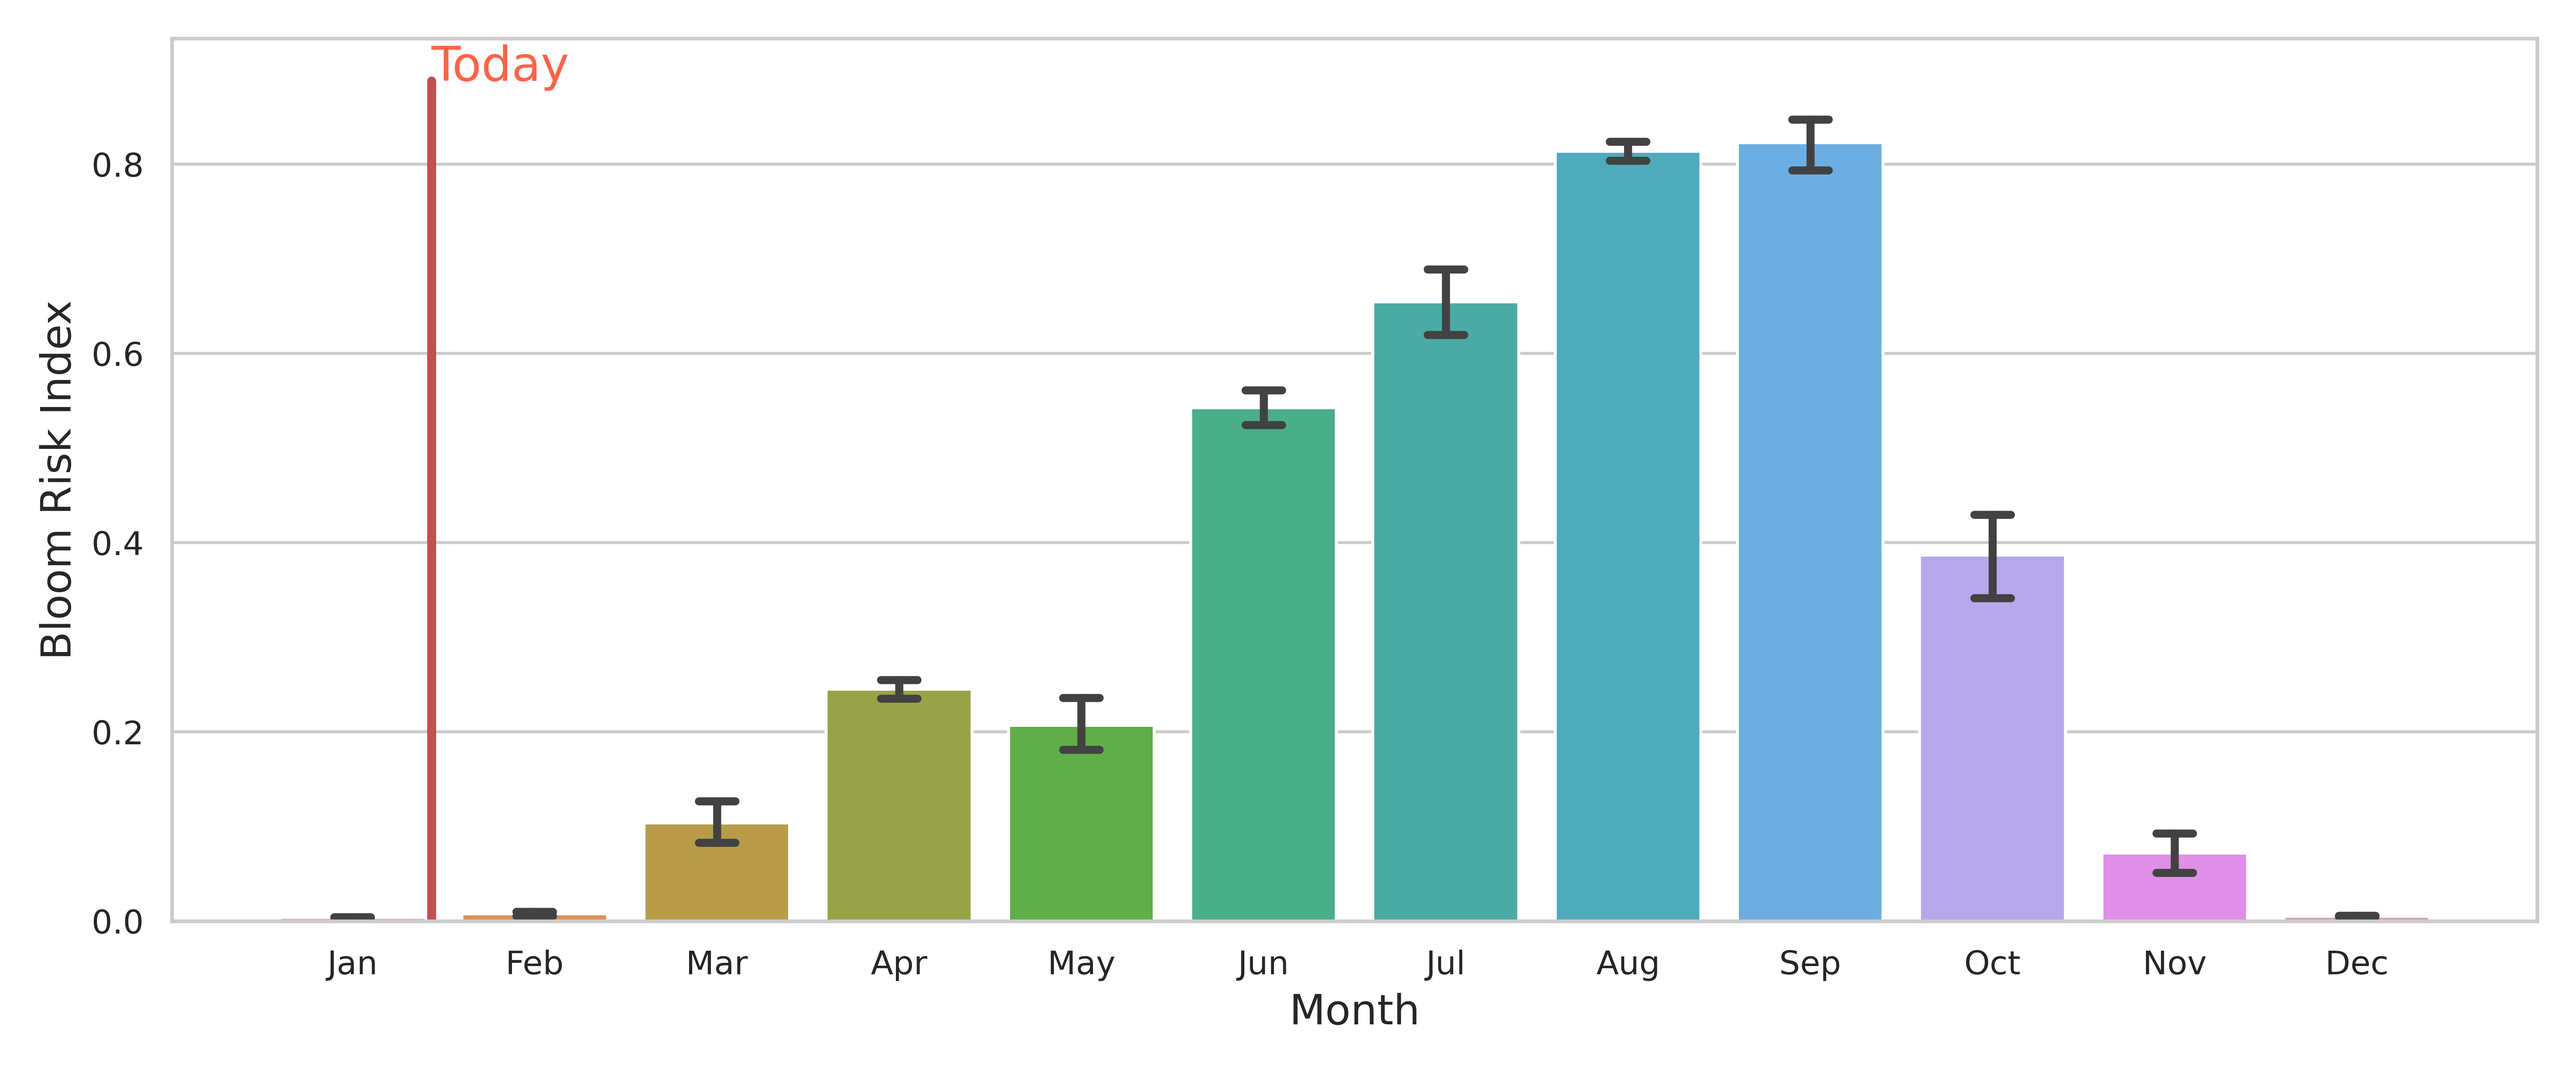
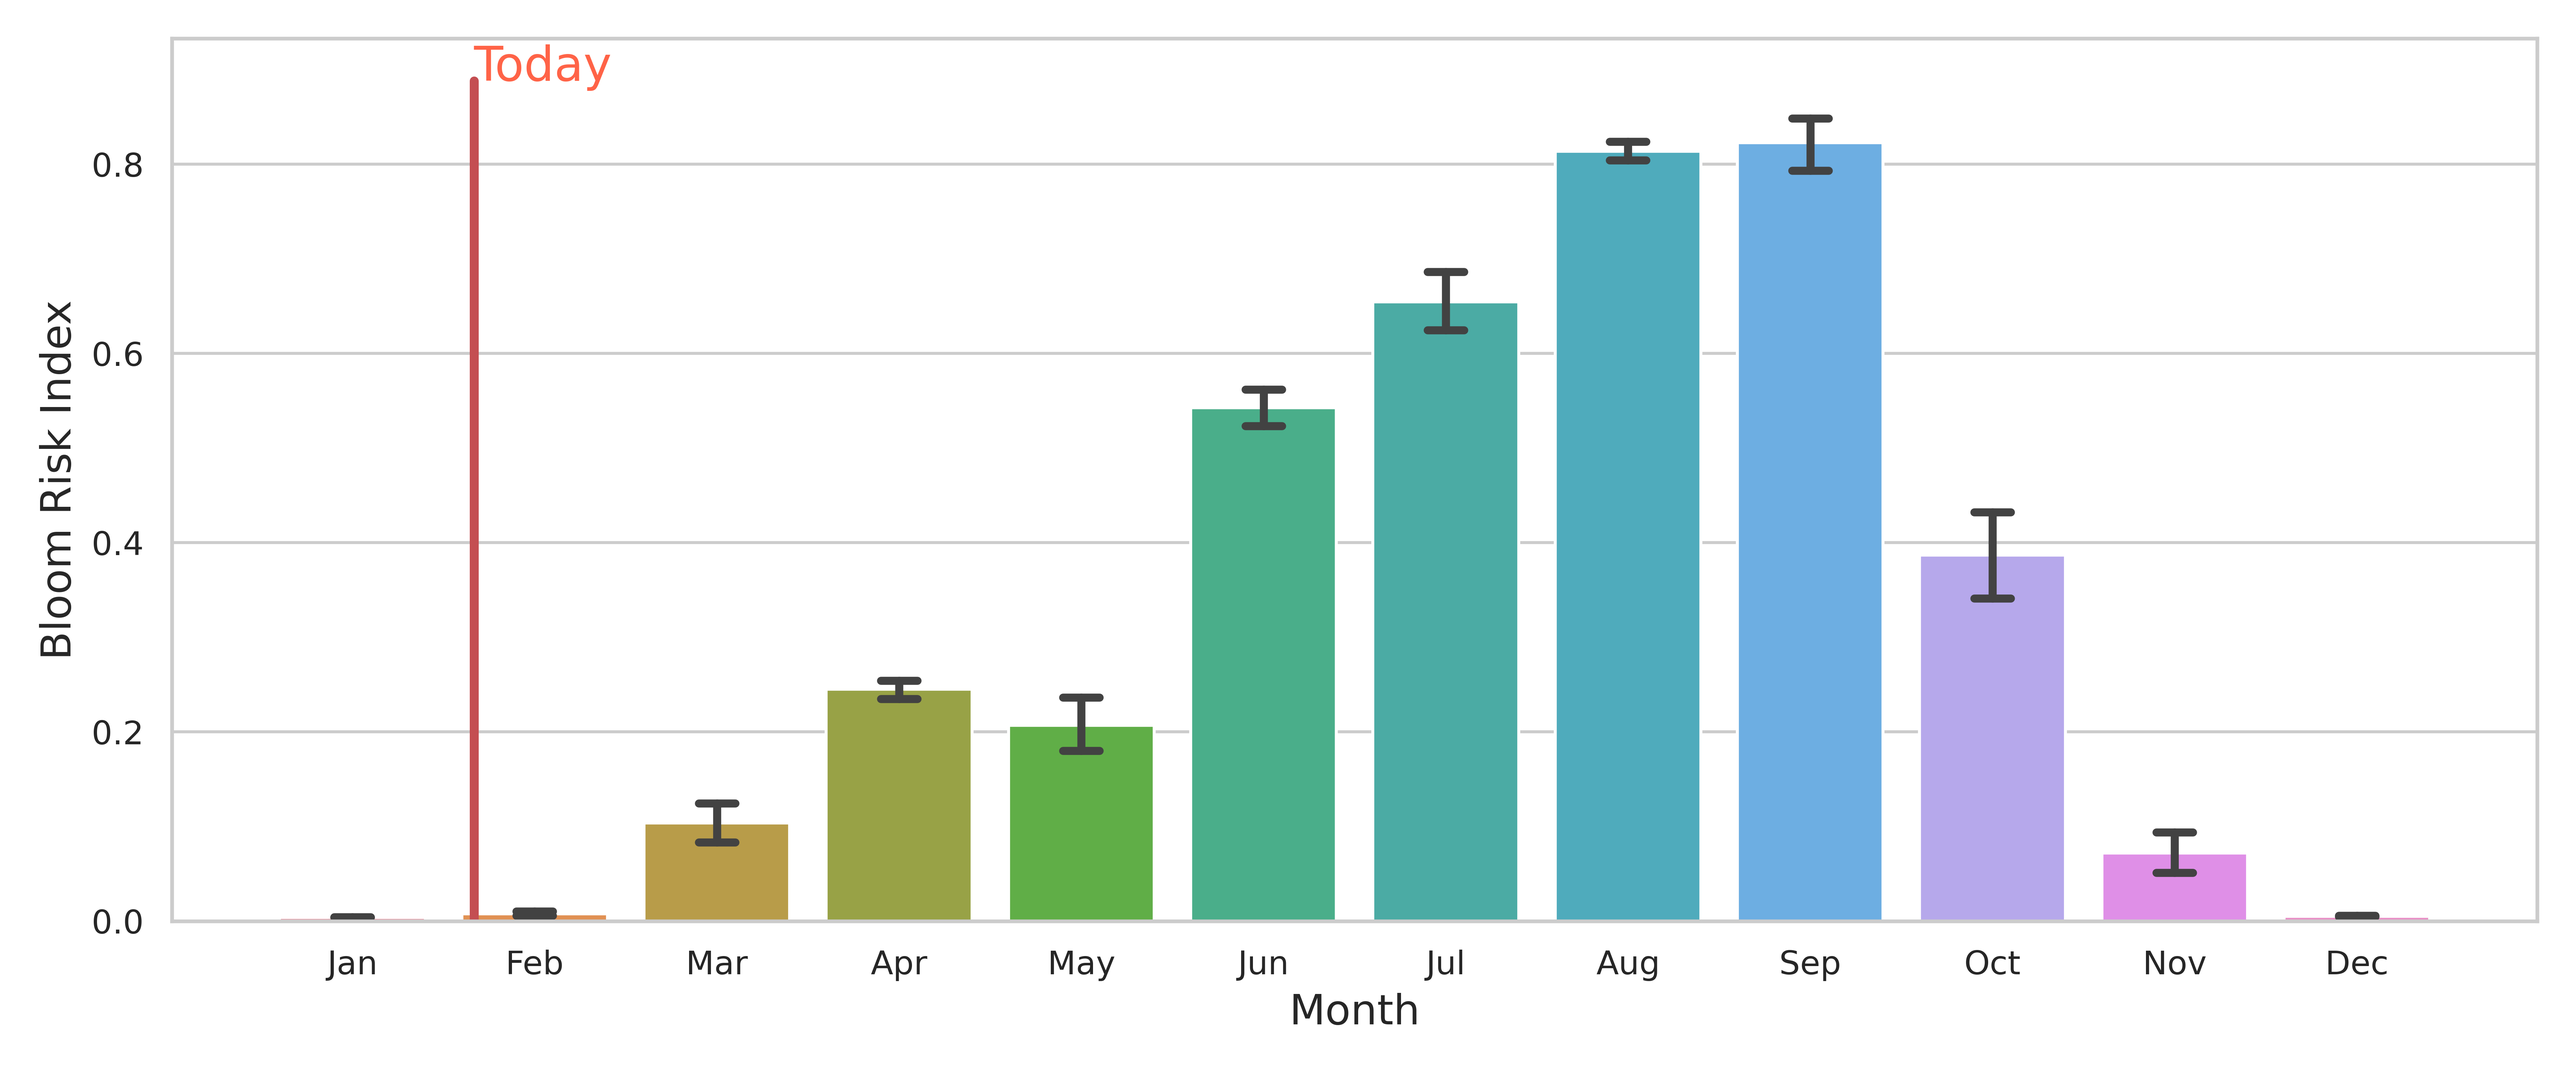
daily blog update

Changed region(s): [[0.1562, 0.031, 0.25, 0.868]]

diff --git a/index.md b/index.md
@@ -1,5 +1,5 @@
 ---
-title: "Jan 13, 2025"
+title: "Jan 20, 2025"
 excerpt: "HAB update"
 image: /assets/images/woodcliff.jpg
 tags: 
@@ -11,34 +11,34 @@ Click here to see the live and interactive [Harmful Algal Bloom dashboard](https
 
 ## 7-day Look Ahead Bloom Forecast
 Below are pie charts describing the __probability of a cyanobacterial bloom__. The chart on the left describes the predictions from two weeks ago, and the one on the right describes the latest prediction, for the coming week. 
-![image-center]({{ site.url }}{{ site.baseurl }}/assets/images/20250113/Fig_prediction.png)
+![image-center]({{ site.url }}{{ site.baseurl }}/assets/images/20250120/Fig_prediction.png)
 __Probabilities of occurrence (%) of an algal bloom from two weeks ago (left) and for the next 7 days (right).__
 
 ## Hotspot Analysis - Chlorophyll-a
 This map shows you the latest estimates of __chlorophyll-a__ from the Sentinel 2a satellite. Note that the color scale is normalized to highlight the hotspots in the image. The colorscale does not provide an indication of the absolute amount of chlorophyll-a in the water and should be interpreted as an "index" of chlorophyll-a.
-![image-center]({{ site.url }}{{ site.baseurl }}/assets/images/20250113/Fig_chla.png){: .align-center}
+![image-center]({{ site.url }}{{ site.baseurl }}/assets/images/20250120/Fig_chla.png){: .align-center}
 <br clear="all" />
 __Latest chlorophyll-a map from the Sentinel 2a satelllite.__
 
 ## Hotspot Analysis - CyAN
 This map shows you the latest estimates of the concentration of cyanobacteria (cells/ml) from the EPA CyAN program.
-![image-center]({{ site.url }}{{ site.baseurl }}/assets/images/20250113/Fig_cyan.png){: .align-center}
+![image-center]({{ site.url }}{{ site.baseurl }}/assets/images/20250120/Fig_cyan.png){: .align-center}
 <br clear="all" />
 __Latest CyAN map from the EPA.__
 
 ## Where we are in the season
 This plot shows the __historical expectation for HAB risk__ over the year. Use this chart to see where we are in the season (identified by the vertical red line). 
-![image-center]({{ site.url }}{{ site.baseurl }}/assets/images/20250113/Fig_climatology.png){: .     align-center}
+![image-center]({{ site.url }}{{ site.baseurl }}/assets/images/20250120/Fig_climatology.png){: .     align-center}
 __Harmful algal bloom risk over the year__.
 
 ## How rainy has it been? 
 We know that in general certain weather conditions promote the likelihood of HABs. Check this chart to see 
 how __wet__ it is, relative to past years. This is simply adding up each day's rainfall, for each year. If the red line is below the orange line, then this year is dryer than average.
-![image-center]({{ site.url }}{{ site.baseurl }}/assets/images/20250113/Fig_precip_cumsum.png){: .     align-center}
+![image-center]({{ site.url }}{{ site.baseurl }}/assets/images/20250120/Fig_precip_cumsum.png){: .     align-center}
 __Precipitation at the lake compared to previous years__.
 
 ## How hot has it been? 
 We know that in general certain weather conditions promote the likelihood of HABs. Check this chart to see 
 how __hot__ it is, relative to past years. This is simply adding up each day's temperature, for each year. If the red line is above the orange line, this year is hotter than average.
-![image-center]({{ site.url }}{{ site.baseurl }}/assets/images/20250113/Fig_temp_cumsum.png){: .     align-center}
+![image-center]({{ site.url }}{{ site.baseurl }}/assets/images/20250120/Fig_temp_cumsum.png){: .     align-center}
 __Air temperature at the lake compared to previous years__.

diff --git a/_posts/2025-01-20-blog095.md b/_posts/2025-01-20-blog095.md
@@ -1,0 +1,44 @@
+---
+title: "Jan 20, 2025"
+excerpt: "HAB update"
+image: /assets/images/woodcliff.jpg
+tags: 
+  - hab
+  - prediction
+---
+
+Click here to see the live and interactive [Harmful Algal Bloom dashboard](https://woodcliff.clrwater.io/).
+
+## 7-day Look Ahead Bloom Forecast
+Below are pie charts describing the __probability of a cyanobacterial bloom__. The chart on the left describes the predictions from two weeks ago, and the one on the right describes the latest prediction, for the coming week. 
+![image-center]({{ site.url }}{{ site.baseurl }}/assets/images/20250120/Fig_prediction.png)
+__Probabilities of occurrence (%) of an algal bloom from two weeks ago (left) and for the next 7 days (right).__
+
+## Hotspot Analysis - Chlorophyll-a
+This map shows you the latest estimates of __chlorophyll-a__ from the Sentinel 2a satellite. Note that the color scale is normalized to highlight the hotspots in the image. The colorscale does not provide an indication of the absolute amount of chlorophyll-a in the water and should be interpreted as an "index" of chlorophyll-a.
+![image-center]({{ site.url }}{{ site.baseurl }}/assets/images/20250120/Fig_chla.png){: .align-center}
+<br clear="all" />
+__Latest chlorophyll-a map from the Sentinel 2a satelllite.__
+
+## Hotspot Analysis - CyAN
+This map shows you the latest estimates of the concentration of cyanobacteria (cells/ml) from the EPA CyAN program.
+![image-center]({{ site.url }}{{ site.baseurl }}/assets/images/20250120/Fig_cyan.png){: .align-center}
+<br clear="all" />
+__Latest CyAN map from the EPA.__
+
+## Where we are in the season
+This plot shows the __historical expectation for HAB risk__ over the year. Use this chart to see where we are in the season (identified by the vertical red line). 
+![image-center]({{ site.url }}{{ site.baseurl }}/assets/images/20250120/Fig_climatology.png){: .     align-center}
+__Harmful algal bloom risk over the year__.
+
+## How rainy has it been? 
+We know that in general certain weather conditions promote the likelihood of HABs. Check this chart to see 
+how __wet__ it is, relative to past years. This is simply adding up each day's rainfall, for each year. If the red line is below the orange line, then this year is dryer than average.
+![image-center]({{ site.url }}{{ site.baseurl }}/assets/images/20250120/Fig_precip_cumsum.png){: .     align-center}
+__Precipitation at the lake compared to previous years__.
+
+## How hot has it been? 
+We know that in general certain weather conditions promote the likelihood of HABs. Check this chart to see 
+how __hot__ it is, relative to past years. This is simply adding up each day's temperature, for each year. If the red line is above the orange line, this year is hotter than average.
+![image-center]({{ site.url }}{{ site.baseurl }}/assets/images/20250120/Fig_temp_cumsum.png){: .     align-center}
+__Air temperature at the lake compared to previous years__.
